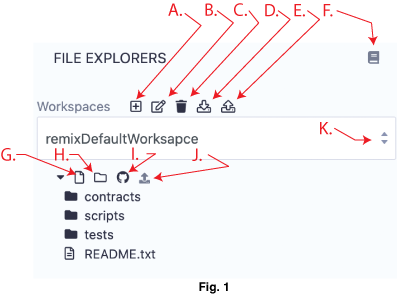
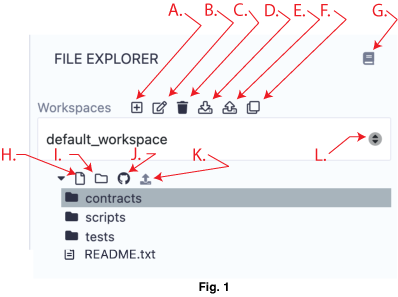
update FE for clone

diff --git a/docs/file_explorer.md b/docs/file_explorer.md
@@ -28,7 +28,7 @@ File Explorer Tour
 
 ![](images/a-fe-tour.png)
 
-The book icon - **F.** is the link to the documentation (this page).
+The book icon - **G.** is the link to the documentation (this page).
 
 ### Workspaces
 Workspaces help to organize your files by allowing you to separate your projects.
@@ -39,23 +39,28 @@ Here are the basic operations of managing a Workspace. The letters in bold below
 - **C.** Delete a Workspace  <br>
 -  **D.** Download all Workspaces This will create a .zip file with all the files of all the Workspaces.  The zip file will have a folder called **.workspaces** that will contain a folder of each workspace.  Depending on your OS, you may need to change the preferences on .workspaces folder to make it visible.  <br>
 - **E.** Upload the Workspaces backup made from the previous icon. <br>
-- **K.** Choose a Workspace 
+- **F.** Clone a repo from Git repository <br>
+- **G.** Link to documentation <br>
+- **J.** Publish the Workspace to a GIST <br>
+- **L.** Choose a Workspace 
 ### File Manipulation
 The letters in bold below refer to the labels in fig. 1.
 
-- **G.** Create a file  <br>
-- **H.** Create a folder  <br>
-- **I.** Publish the Workspace to a GIST <br>
-- **J.** Load a local file into the current Workspace<br>
+- **H.** Create a file  <br>
+- **I.** Create a folder  <br>
+- **K.** Load a local file into the current Workspace<br>
 
 ## Workspaces with Templates
 When you create a new Workspace, a modal comes up where you choose which template of files to include.
 
 ![](images/a-workspace-templates.png)
 
+## Workspaces & cloning a repo
+When you click the **clone** icon (**F.** in fig.1), you'll be asked for the url of the repo.  A new workspace will be created that will contain the cloned repo.  To manage the GIT repo, go to the DGIT plugin.
+
 ## Creating new files
 
-There are 2 ways of creating files.  The first is to click on the new file icon (**G.** in fig.1), an input for a new the file’s name will appear in the **File Explorer**. Once a name is entered, the new empty file will open in the Editor.
+There are 2 ways of creating files.  The first is to click on the new file icon (**H.** in fig.1), an input for a new the file’s name will appear in the **File Explorer**. Once a name is entered, the new empty file will open in the Editor.
 
 The second way of creating a file is to right click on a file or folder to get a popup menu.
 
@@ -66,7 +71,7 @@ The new file will be placed in **the currently selected folder** of the Workspac
 Publish to Gist
 ---------------
 
-The icon (marked **I.** in fig.1) publishes all files from the current Workspace to a gist. **The Gist API requires users to be authenticated** to be able to publish a gist.  
+The icon (marked **J.** in fig.1) publishes all files from the current Workspace to a gist. **The Gist API requires users to be authenticated** to be able to publish a gist.  
 
 Click [this link](https://github.com/settings/tokens) to Github tokens setup and select Generate new token. Then check the **Create gists** checkbox and generate a new token. Also make sure you check the box to enable the creation of Gists with this token.
 
